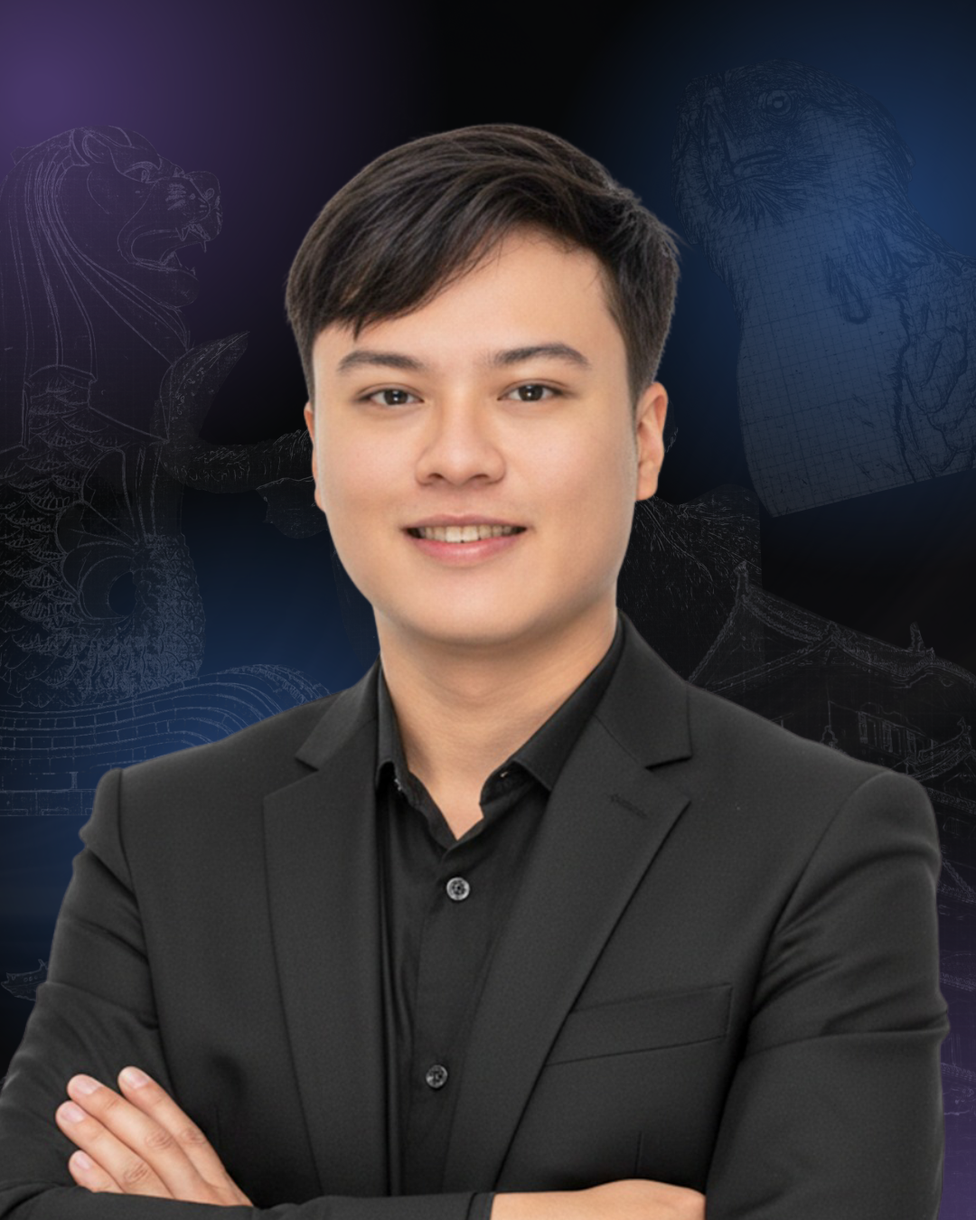
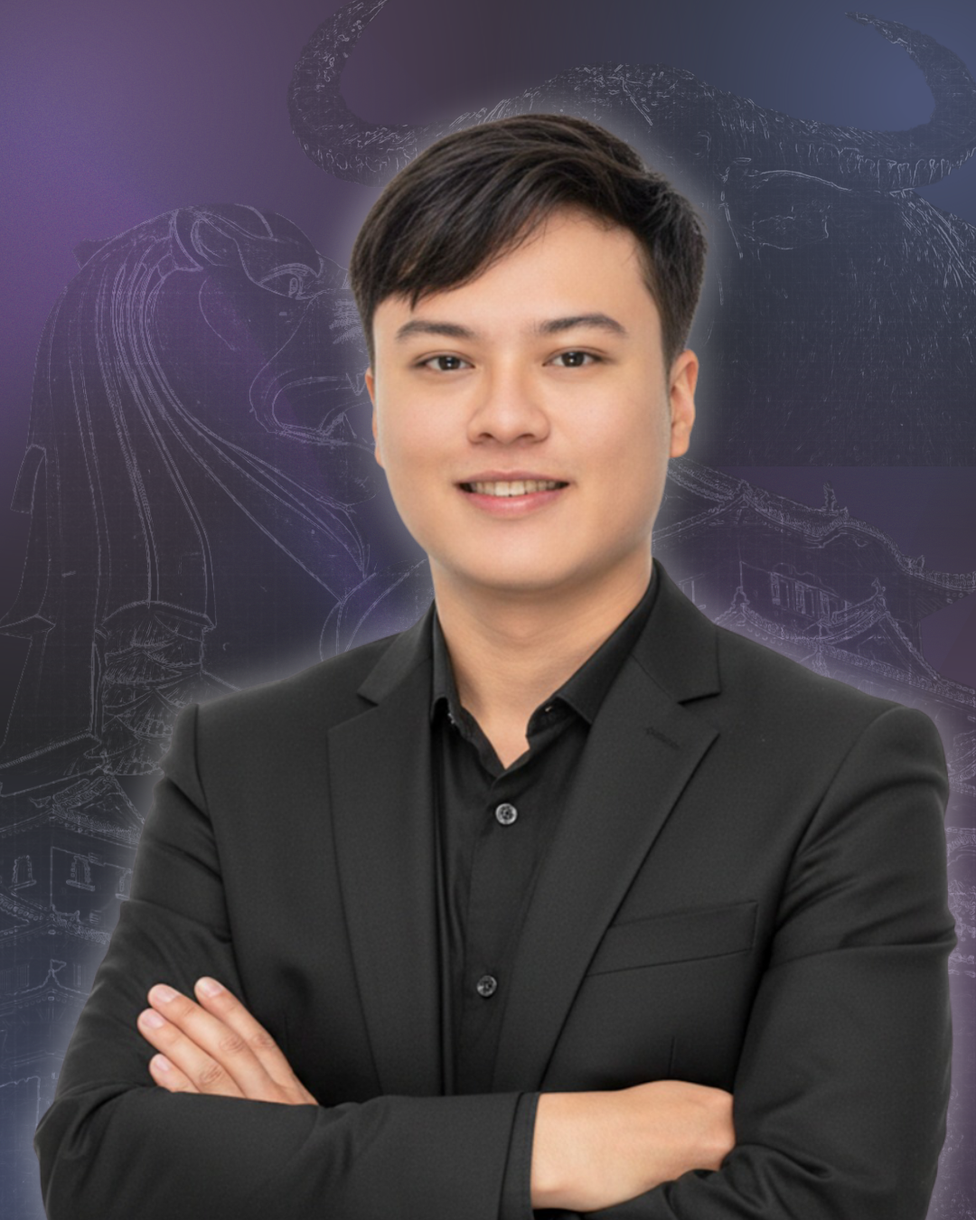
speaker and post fixes

diff --git a/src/components/site/UpcomingSpeakers.tsx b/src/components/site/UpcomingSpeakers.tsx
@@ -16,73 +16,96 @@ interface UpcomingSpeaker {
 
 const speakers: UpcomingSpeaker[] = [
   {
-    img: "/new-speakers/1.png",
+    img: "/new-speakers/Rose Sagun.png",
     name: "Rose Sagun",
     role: "Education Specialist, Human and Social Development Sector Office (SG-HSD), Sectors Group (SG), Asian Development Bank",
     logo: "/speaker-logos/adb.png",
     bio: "Rose is an Education Specialist at the Education Practice Team, Sector Group, Asian Development Bank. Before joining ADB, she worked at the Education Commission in Washington D.C., which was co-convened by the former Director-General of UNESCO and the UN Special Envoy for Global Education. She has worked on adaptive, personalized learning; digital learning/EdTech initiatives; and studying the interface between technology and human interaction, learning, and pedagogy. She served as the Co-Chair of Harvard Alumni for Education \u2014 San Francisco Bay Area chapter. She holds a Master\u2019s degree in International Education Policy from Harvard University.",
   },
   {
-    img: "/new-speakers/kristoni.png",
+    img: "/new-speakers/Kristoni.png",
     name: "Kristoni Go",
     role: "COO & Country Director, Enactus Philippines",
-    logo: "/speaker-logos/enactus-logo.webp",
+    logo: "/speaker-logos/Enactus-logo-white.png",
     bio: "Kristoni Go serves as the Chief Operating Officer and Country Director of Enactus Philippines, a global non-profit organization that mobilizes university students to create community impact through entrepreneurial action. In her role, she leads strategic operations, partnership development, and program management across the Philippines. Kristoni is deeply committed to youth empowerment and social innovation, working to equip the next generation of leaders with the skills and mindset to drive sustainable change. Her leadership at Enactus Philippines has expanded the organization's reach to hundreds of students nationwide, fostering a culture of purpose-driven entrepreneurship.",
   },
   {
-    img: "/new-speakers/2.png",
+    img: "/new-speakers/Tomiwa.png",
+    name: "Tomiwa Akinsanya",
+    role: "Project Coordinator, DTH Lab",
+    logo: "/speaker-logos/dtt.png",
+    bio: "Tomiwa Akinsanya, Project Coordinator at the Digital Transformations for Health Lab, is passionate about using digital technologies and innovative behavioral sciences to enhance global youth health. Tomiwa has worked with respected organizations dedicated to advancing digital health and youth well-being globally. With almost a decade of experience, a B.Sc in Physiology and a Masters in Public Health, she applies specialized skills in research, project management, communication, stakeholder management, and advocacy to improve health systems for the benefit of all. Her core values are aligned with Innovation, Empathy, Creativity, Integrity, Team Work and Excellence.",
+  },
+  {
+    img: "/new-speakers/Rustam.png",
     name: "Rustam Shariq Mujtaba",
     role: "Regional Youth Champion, DTH Lab",
-    logo: "/speaker-logos/dth-lab.png",
+    logo: "/speaker-logos/dtt.png",
     bio: "Rustam serves as the Southeast and East Asia Regional Youth Champion at the Digital Transformation for Health Lab (DTH-Lab), where he supports youth leadership and regional collaboration on digital health. He has experience working in the digital health ecosystem in startups and as a health regulatory, working as the Manager of Regulatory Affairs & Data Analytics at Peach Health Asia, working on the regulation and deployment of AI-enabled Software Medical Devices across Southeast Asia. Currently, he works as a Data Scientist at Singapore's Health Sciences Authority, developing AI-enabled regulatory solutions for healthcare. His interests lie at the intersection of digital health, AI governance, health diplomacy, and strengthening equitable health systems through responsible innovation.",
   },
   {
-    img: "/new-speakers/3.png",
+    img: "/new-speakers/Edward.png",
     name: "Edward Yee",
     role: "Co-Founder, AI for Asia & GivFunds",
     logo: "/speaker-logos/aiforasia.png",
     bio: "Edward Yee is a serial social entrepreneur whose career bridges impact, finance, and technology. He co-founded ventures such as Givfunds, an impact fund, and nsave, a fintech focused on financial inclusion. His ventures have attracted funding from prominent backers including Sequoia Capital, the UNDP, and Y Combinator. Today, Edward is the Chief Growth Officer of FAR.AI, an AI Safety non-profit that works to ensure advanced AI is safe and beneficial for everyone. A Rhodes Scholar, Edward holds two master\u2019s degrees from Oxford and was the Valedictorian of his class at Nanyang Technological University. His contributions have earned him recognition as an Obama Leader, the Commonwealth Youth Award for Asia, and a spot on the Forbes 30 Under 30 list. In his free time, Edward enjoys sticking his nose in a book and collecting stories from around the world. He has stood on Bangladeshi train tops, stared down bull sharks, and raced Indian \u201Cautos\u201D.",
   },
   {
-    img: "/new-speakers/4.png",
+    img: "/new-speakers/Cyrus.png",
     name: "Cyrus Hodes",
     role: "Founder, AI Safety Connect",
     logo: "/speaker-logos/ai-safety-connect.png",
     bio: "Cyrus is a Venture Partner at Lionheart Ventures, a VC fund investing in early-stage responsible AI and AI Safety. He is a co-founder of Stability AI, a leading global generative AI platform, and the founder of AI Safety Connect, a global gathering on AI Safety as well as an AI policy platform. As an expert in the Global Partnership on AI (GPAI), he has co-led the Safety and Assurance of Generative AI (SAFE) project. Cyrus is a Fellow of Practice at the Mohammed Bin Rashid School of Government in Dubai, where he leads their AI Safety initiative, Global Risk and AI Safety Preparedness (GRASP). Cyrus co-founded The Future Society\u2014a 501(c)3 incubated at Harvard Kennedy School and chaired its AI Initiative\u2014where he engaged early with global stakeholders to study and help shape the governance of AI. He served as an Advisor to the UAE Minister of Artificial Intelligence at the Prime Minister\u2019s Office. Educated at Sciences Po Paris, MA (Hons) Paris II University, M.P.A. Harvard.",
   },
   {
-    img: "/new-speakers/6.png",
+    img: "/new-speakers/Andreas.png",
+    name: "Andreas Tjendra",
+    role: "AI National Advisor, RMIT Industry Partner at RMIT University",
+    logo: "/speaker-logos/rmit.png",
+    bio: "Andreas Tjendra is an AI National Advisor whose expertise spans Industry, Government, and Academia, focusing on driving innovation and strategy in artificial intelligence and technology development. He has contributed to major initiatives such as the AI National Roadmap (Ministry of Communication and Digital Affairs). He has also served as a Subject Matter Expert for the Ministry of ICT, the Presidential Advisory Council, and ClimateSmart Indonesia. His work supports the integration of AI, climate, and health data into national policies and development projects. Andreas has advised over 15 governments, 50+ industries, and 5 academic institutions. He was previously with Geotech Australia and has served as a consultant for BHP Billiton, Google.org, and the ASEAN Foundation.",
+  },
+  {
+    img: "/new-speakers/Boyi.png",
+    name: "Boyi Zhang",
+    role: "Programme Officer, Global Partnership and Programme Office at UNESCO-ICHEI",
+    logo: "/speaker-logos/Unesco.png",
+    bio: "Mr. Boyi Zhang is currently a Programme Officer at the International Centre for Higher Education Innovation under the auspices of UNESCO (UNESCO-ICHEI). Prior to joining UNESCO ICHEI, Boyi served with the UN Regional Centre for Peace and Disarmament in Asia and the Pacific (UNRCPD) as a Junior Project Advisor for Youth and Disarmament, acting as the focal point for youth and disarmament education in the region. Previously he also worked as a Research Assistant at the Chinese Academy of International Trade and Economic Cooperation of the Ministry of Commerce of the PRC and the Institute of Area Studies at Peking University. Boyi holds a Master\u2019s degree in International Governance and Diplomacy from Sciences Po and an LLB from the University of International Relations in Beijing.",
+  },
+  {
+    img: "/new-speakers/Carlo.png",
+    name: "Carlo Fernando",
+    role: "Learning Innovation and Information Specialist, SEAMEO",
+    logo: "/speaker-logos/seameo.png",
+    bio: "Mr Carlo Fernando is the Learning Innovation and Information Specialist at the SEAMEO Secretariat in Bangkok, Thailand, where he leads and coordinates regional initiatives advancing learning innovation, digital transformation, institutional capacity, and cross-border collaboration across Southeast Asia. He oversees the International Institute of Online Education (IIOE) Southeast Asia Regional Centre, the SEAMEO Schools Network, and the Southeast Asia School Leadership Hub, working with ministries, universities, schools, SEAMEO Regional Centres, and development partners to strengthen capacity, generate and translate evidence, and build regional platforms for knowledge exchange and innovation. His work focuses on teacher development, higher education, education technology, and regional cooperation, with particular interest in how education systems can respond to emerging technologies while remaining equitable, relevant, and responsive to local contexts. He holds a Master of Learning Sciences and Technology from the University of Sydney, where he studied as an Australia Awards Scholar, and began his career as a Grade 3 public school teacher with Teach for the Philippines.",
+  },
+  {
+    img: "/new-speakers/Sebastian.png",
     name: "Sebastian Felipe Bundoc",
     role: "Senior Data Scientist, Education Center for AI Research",
-    logo: "/speaker-logos/center-for-ai-research.png",
+    logo: "/speaker-logos/CAIR.png",
     bio: "Eli Bundoc has deep roots in the education sector, having worked with the Department of Education, Commission on Higher Education, and the Second Congressional Commission on Education. His roles have included policy writing, grant management, stakeholder engagement, and data analysis. Eli\u2019s consistent work with government data and his understanding of its importance in planning and policy-making led him to pursue and complete his Master of Science in Data Science degree at the Asian Institute of Management. Currently at the Education Center for AI Research (ECAIR), Eli combines his background in education with his data science skills to harness machine learning and artificial intelligence solutions for the public education sector.",
   },
 
   {
-    img: "/new-speakers/8.png",
+    img: "/new-speakers/Michelle.png",
     name: "Michelle Kim-Rissi",
     role: "Co-Founder / Programme Manager, JIVAM Foundation / UN Canada / WFUNA",
     logo: "https://www.unac.org/wp-content/uploads/unac-logo.webp",
     bio: "Michelle Kim-Rissi is a sustainability, climate, and global development professional working at the intersection of sustainability, education, international cooperation, and community-driven sustainability initiatives. She currently serves in leadership, coordination, and advisory roles with various organizations including the JIVAM Foundation, the United Nations Association in Canada (UNAC), and the World Federation of United Nations Associations (WFUNA). Her broader experience includes collaborations and engagements with UNEP, UNDP initiatives, Harvard sustainability networks, youth climate coalitions, educational institutions, and international civil society organizations focused on climate action, social impact, and sustainable development. Michelle holds a Master\u2019s degree from Harvard University and is a Harvard alumni awardee for social change. Over the past decade, she has led and contributed to projects related to climate resilience, environmental education, sustainable communities, youth leadership, and health equity across local and international contexts. She has spoken, facilitated, or represented organizations at conferences, forums, and UN-related events in countries including Canada, the United States, South Korea, the United Arab Emirates, Switzerland, UK and Mexico, including engagements connected to COP, UNEA, CSW, UNGA, and many other UN advocacy forums, climate leadership events, and multilateral dialogues. Her work has included developing sustainability programs, supporting underserved and Indigenous communities, building international partnerships, and creating initiatives that connect local action to global sustainability goals. Michelle continues to advocate for collaborative and forward-thinking approaches that leverage sustainability and innovation to address global challenges. Her leadership emphasizes the importance of multilateral collaboration, community empowerment, and inclusive sustainability in shaping a more equitable and resilient future.",
   },
-  // {
-  //   img: "/new-speakers/9.png",
-  //   name: "Daniel Eriksson",
-  // },
-  // {
-  //   img: "/new-speakers/10.png",
-  //   name: "George Tsiatis",
-  // },
-  // {
-  //   img: "/new-speakers/11.png",
-  //   name: "Tiaro Paska Rivo",
-  // },
   {
-    img: "/new-speakers/12.png",
-    name: "Andreas Tjendra",
-    role: "AI National Advisor, RMIT Industry Partner",
-    logo: "",
-    bio: "Andreas Tjendra is an AI National Advisor whose expertise spans Industry, Government, and Academia, focusing on driving innovation and strategy in artificial intelligence and technology development. He has contributed to major initiatives such as the AI National Roadmap (Ministry of Communication and Digital Affairs). He has also served as a Subject Matter Expert for the Ministry of ICT, the Presidential Advisory Council, and ClimateSmart Indonesia. His work supports the integration of AI, climate, and health data into national policies and development projects. Andreas has advised over 15 governments, 50+ industries, and 5 academic institutions. He was previously with Geotech Australia and has served as a consultant for BHP Billiton, Google.org, and the ASEAN Foundation.",
+    img: "/new-speakers/Anselmo.png",
+    name: "Anselmo Lee",
+    role: "Ambassador for Human Rights, Peace and Democracy, Republic of Korea",
+    logo: "/speaker-logos/southkorea.webp",
+    bio: "Appointed in May 2026 as South Korea's first Human Rights Ambassador, H.E. Anselmo Lee is one of Asia's most prominent and experienced human rights advocates, with decades of contributions to human rights and civil society movements across the region. He has served as President of Pax Romana in Geneva, Executive Director of Forum-Asia, Executive Director of the Korea Human Rights Foundation, and Director General for Policy and Human Rights Education at the National Human Rights Commission of Korea. He is a co-founder of the Asia Development Alliance and the Asia Democracy Network, and currently serves as Regional Coordinator at the Asia Civil Society Partnership for Sustainable Development, board member at the May 18 Memorial Foundation, and adjunct professor at Kyunghee, SungKongHoe, and Ajou University. He is deeply committed to linking human rights with sustainable development and to nurturing the next generation of human rights defenders across Asia.",
+  },
+  {
+    img: "/new-speakers/Shellan.png",
+    name: "Shellan Saling",
+    role: "Carbon Management and Climate Transition Coach · Policy Lead and Plastics Lead, The Change Climate Project · Waves of Change Coalition",
+    logo: "/speaker-logos/climatechange.png",
+    bio: "Shellan Saling is a sustainability, climate, and international development professional working at the intersection of environmental policy, corporate strategy, and applied AI. She currently serves as interim chair of the Youth Plastics Action Network (YPAN), leading global youth coordination across 170+ countries in the first-ever United Nations Global Plastics Treaty negotiations, where she has delivered formal interventions on behalf of youth and contributed to treaty language on extended producer responsibility, sustainable materials, and other provisions. Over the past six years, she has lived and worked in the United States, India, and the Netherlands, advising consumer brands on sustainability strategy and carbon measurement, and building AI-powered tools that streamline corporate sustainability, including one that cut regulatory analysis from 40 hours to under 30 seconds. She has co-founded and co-organized several international sustainability education initiatives, including a multilateral environmental agreement bootcamp that has trained over 10,000 participants from 130+ countries in just over a year. Her broader experience spans climate resilience, environmental education, and community-driven sustainability, connecting local action to global goals. Shellan holds a Master's in Development Studies from Erasmus University Rotterdam and a BA in International Relations from UC Davis, and has engaged in UN processes including the INC plastics negotiations and UNEA. As a sustainability professional, she is cautiously optimistic about AI: clear-eyed about its risks, including its own environmental footprint, but convinced that the more useful path is to help shape practical, responsible solutions rather than resist a technology that is here to stay. Her work focuses on turning complex policy and emerging technology into practical, solutions-oriented approaches that advance sustainable development, and on ensuring young people have a real seat at the table where the rules get written. Fittingly, she took her first steps in Yosemite National Park, an early sign of the path her life and work would follow.",
   },
   {
     img: "/new-speakers/13.png",
@@ -116,6 +139,8 @@ function UpcomingSpeakerCard({
           src={speaker.img}
           alt={speaker.name}
           fill
+          sizes="(max-width: 639px) 50vw, (max-width: 767px) 33vw, 25vw"
+          loading={speaker.name === "Kristoni Go" ? "eager" : "lazy"}
           className="object-cover transition-transform duration-700 group-hover:scale-105"
         />
       </div>
@@ -254,6 +279,7 @@ function SpeakerModal({
                 src={speaker.img}
                 alt={speaker.name}
                 fill
+                sizes="(max-width: 768px) 100vw, 45vw"
                 className="object-cover"
               />
             </div>

diff --git a/src/data/social-feed.ts b/src/data/social-feed.ts
@@ -8,57 +8,75 @@ export interface SocialPost {
 
 export const socialPosts: SocialPost[] = [
   {
-    id: "deadline-extended",
+    id: "capstone-countdown",
     message:
-      "You asked for more time. Here it is. ⏳\nThe AI for Asia Fellowship 2026 application deadline has officially been extended!\nAnd we didn't just extend the deadline, here's everything you need to know before you apply:\n🌏 Who can apply?\nThe fellowship is primarily open to citizens and residents of ASEAN Member States and South Korea. If you're from another country, you're still welcome to apply — accepted applicants outside these countries may participate as Observers, with access to learning sessions and selected fellowship activities.\n🎂 What's the age requirement?\nWe've expanded eligibility to applicants 18 to 35 years old.\n📋 What if I don't meet every requirement?\nApply anyway. We evaluate applications holistically.\n💸 How much does it cost?\nApplication and participation are completely free.\n👉 Apply now: form.typeform.com/to/NOTrA2Qg",
-    images: ["/social/deadline-extended.jpg"],
-    permalink:
-      "https://web.facebook.com/photo/?fbid=122143266639017899&set=a.122096943807017899",
-    date: "2026-06-18",
+      "Two months in. Now it's their turn. 🌏\nThey sat in zoom rooms with ambassadors and asked what human rights actually mean in an age of AI. They pushed back on the hype and learned what machine learning looks like when it has to work offline, in remote schools, with no reliable internet. They heard about the environmental cost of the tools we're so excited to build. They debated who AI governance serves and who it leaves out.\nFor eight weeks, they listened, questioned, and challenged.\nNow they answer.\nOn September 19 and 26, our 120 fellows from across ASEAN and South Korea take the floor for their Capstone Presentations, country-level research on the AI landscape in their own communities, covering policy, ethics, social impact, and what needs to change.\n12 countries. 120 perspectives. One fellowship.\nWe can't wait to hear what they've built. 🚀",
+    images: ["/social/capstone-countdown.jpg"],
+    permalink: "https://www.facebook.com/share/p/1CLtRnJwyy/",
+    date: "2026-09-14",
   },
   {
-    id: "ai-disruption",
+    id: "ambassador-insights",
     message:
-      "That customer service job you interned for last summer? AI handles it now. The data entry roles your classmates applied to after graduation? Automated. The graphic design freelance gigs? Platforms like Canva AI and Adobe Firefly just cut the barrier to entry in half.\n164 million workers across Southeast Asia are in jobs being disrupted by AI right now, not in 10 years. Now.\nThis isn't about fear. It's about who gets to be on the building side of this shift instead of the receiving end.\nAI for Asia Fellowship 2026 is 12 weeks of learning how AI actually works, who controls it, and how to lead in a world it's reshaping.\nNo engineering degree. No coding background. Just you, 120 fellows from 12 countries, and the drive to show up.\nApplications close June 20, 2026.\nSource: Access Partnership & Google, Future of Work in Asia-Pacific, 2024",
-    images: ["/social/ai-disruption.jpg"],
-    permalink:
-      "https://web.facebook.com/photo?fbid=122142829581017899&set=pcb.122142829851017899",
-    date: "2026-06-15",
+      "\"Let us not simply allow AI to determine our future. Let us work together to determine the future of AI.\" 🌏\nOf all the things said in Session 7 this Saturday, this is the one that stayed with us.\nIn a conversation about climate action, sustainable development, and the real costs of AI, energy, water, inequality, it would have been easy to stay in the abstract. But H.E. Seonghoon Anselmo Lee, Ambassador for Human Rights, Peace and Democracy of the Republic of Korea, brought it back to something more fundamental: AI is not inevitable. It is not neutral. And the rules governing it are still being written.\nWhich means someone has to write them.\nHe reminded our fellows that they are not just the future of AI, they are its present stakeholders, co-designers, and rule-makers. That they carry a responsibility not only to the communities here today, but to the generations who aren't yet in the room and have no voice in the decisions being made right now.\nTo our fellows across ASEAN and South Korea: we hope you leave Session 7 not just knowing more about AI and the SDGs, but with a clearer sense of what you're willing to fight for, and who you're building for.\nThat's what this fellowship is for.",
+    images: ["/social/sept7.jpg"],
+    permalink: "https://www.facebook.com/share/p/1BxYvRy9HL/",
+    date: "2026-09-07",
   },
   {
-    id: "fellow-spotlight",
+    id: "session7-speakers",
     message:
-      "These are the voices of AI for Asia 2025's outstanding fellows. 🌏\nFrom Indonesia, the Philippines, Vietnam, Myanmar — young people who came in curious and left with a perspective that's already shaping how they see AI, governance, and their role in the region.\nSwipe through what they had to say. 👉\nThen ask yourself: what would your take be after 12 weeks in this program?\nAI for Asia Fellowship 2026 is open now. 120 spots. 12 countries. Fully online. No tech background needed.\nDeadline: June 20, 2026 | 11:59 PM GMT+8",
-    images: ["/social/fellow-spotlight.jpg"],
-    permalink:
-      "https://web.facebook.com/permalink.php?story_fbid=pfbid02QGCu6QaPvjHtBLLzHn8L6R8AaDxgTYg6Qkk39SYUf77gxEbuVjoe4y79w1DFh6ASl&id=61580536983970",
-    date: "2026-06-12",
+      "From climate modeling and smart agriculture to disaster preparedness, renewable energy, and circular economy solutions, AI is already reshaping how the world responds to its most pressing environmental and development challenges.\nBut with that power comes real responsibility: the energy AI consumes, the data it requires, the communities it leaves behind, and the governance frameworks that must sit underneath all of it.\nThis Saturday, we explore all of it.\nMichelle Kim-Rissi is a Harvard-trained sustainability and global development professional serving with the JIVAM FOUNDATION, UN Association Canada, and the World Federation of United Nations Associations (WFUNA). A Harvard alumni awardee for social change, Michelle has spent over a decade leading work across climate resilience, environmental education, youth leadership, and health equity, with engagements at COP, UNEA, CSW, UNGA, and multilateral forums across Canada, South Korea, the UAE, Switzerland, the UK, Mexico, and beyond.\nShellan Saling is a sustainability, climate, and international development professional working at the intersection of environmental policy, corporate strategy, and applied AI. As Interim Chair of the Youth Plastics Action Network (YPAN), she leads youth coordination across 170+ countries in the first-ever UN Global Plastics Treaty negotiations, delivering formal interventions and contributing to treaty language on extended producer responsibility and sustainable materials. She has built AI-powered tools that cut regulatory analysis from 40 hours to under 30 seconds, and co-organized the MEA Bootcamp, training over 10,000 participants from 130+ countries. She holds a Master's in Development Studies from Erasmus University Rotterdam and a BA in International Relations from UC Davis. Cautiously optimistic about AI, her work focuses on turning complex policy and emerging technology into practical solutions, and ensuring young people have a real seat at the table where the rules get written.\nTogether, they will bring 120 young leaders from across ASEAN and South Korea through expert insights, real-world examples, and a collaborative workshop where fellows apply AI and systems thinking to SDG challenges in their own communities.\nThe conversation starts Saturday. 👀\nSession 7 | AI for Asia Fellowship 2026\n📅 September 5, 2026 | 2:00 PM GMT+8 | Online via Zoom",
+    images: ["/social/sept3.jpg"],
+    permalink: "https://www.facebook.com/share/p/1BmzutvGQW/",
+    date: "2026-09-03",
   },
   {
-    id: "ready-to-lead",
+    id: "session7-ethics",
     message:
-      "You've heard about AI. But are you actually ready to lead in it? 🌏\nThe AI for Asia Fellowship 2026 is where that changes.\nSwipe through and here's what you're really signing up for.\nThink critically. Lead responsibly — Learn how AI actually works, who it serves, and how to govern it ethically.\n120 fellows. 12 countries. 1 shared mission — Your ASEAN network starts here, and outlasts the program.\nBuild for what's next — Turn AI knowledge into real skills and real opportunities for your career and your community.\nYour idea, your stage, your impact — Work on a capstone project tackling a real-world problem and pitch it to an actual audience.\n12 weeks. Fully online. Ages 18–30. No tech background needed.\nDon't just adapt to the future of AI, help shape it.\n⏳ Deadline: June 20, 2026 | 11:59 PM GMT+8",
-    images: ["/social/ready-to-lead.jpg"],
-    permalink:
-      "https://web.facebook.com/permalink.php?story_fbid=pfbid02uEQMYTB2tizx6y6AmCenDNdVLZpdp2LMmv8QcmLoXaT1pLvr5KgBRpdkyDTkH5Gfl&id=61580536983970",
-    date: "2026-06-10",
+      "AI can predict typhoons. Optimize solar grids. Monitor biodiversity loss in real time.\nBut here's what the data doesn't tell you: most AI-for-climate tools were never designed with the communities facing the worst of it.\nSession 7 of the AI for Asia Fellowship goes there, the real conversation on what it means to use AI responsibly for sustainable development. Not just the applications, but the ethics. Not just the potential, but the cost.\nWe're honored to open with a Message of Support from H.E. Seonghoon (Anselmo) LEE Ambassador for Human Rights, Peace and Democracy, RoK Government, a powerful voice on the intersection of governance, human rights, and sustainable futures.\nWe're then sitting down with Michelle Kim-Rissi (JIVAM FOUNDATION / Climatech Institute / UN Association Canada) and Shellan Saling (Youth Plastic Action Network (YPAN)), two leaders working to make sure AI for the SDGs actually serves the people the SDGs were written for.\nClimate modeling. Smart agriculture. Disaster preparedness. Renewable energy. Circular economy. And the harder questions about AI energy consumption, equity, and who gets left out.\nThis Friday. Don't miss it. 👀",
+    images: ["/social/sept3(2).jpg"],
+    permalink: "https://www.facebook.com/share/p/19AhYvEdPb/",
+    date: "2026-09-03",
   },
   {
-    id: "which-are-you",
+    id: "ecair-insight",
     message:
-      "Be honest, how many of these are you? 👇\nBecause if you've ever wondered how AI actually works, who's building it, and whether someone like you belongs in that conversation, this fellowship was made for you.\nAI for Asia Fellowship 2026 is looking for emerging leaders from across ASEAN and South Korea who are ready to understand AI, lead with it, and shape what comes next.\nNo engineering degree. No coding experience. Just curiosity and the drive to lead.\nApplications close June 20, 2026 | 11:59 PM GMT+8",
-    images: ["/social/which-are-you.jpg"],
-    permalink:
-      "https://web.facebook.com/permalink.php?story_fbid=pfbid02aDVS2wkB8RAWb2ka6FFcNwk7fvVchi6bJBqrtU2ZEs8eqVaEq9EM5BBgmZGniLrMl&id=61580536983970",
-    date: "2026-06-08",
+      "\"For ECAIR, you have to start with the problem before you create a solution.\" 💬\nIn a space obsessed with what AI can do, Eli Bundoc of Center for AI Research DepEd Philippines brought it back to something more fundamental: where does the problem actually come from?\nNot from a lab. Not from a trend. From a community. A body of people who can tell you what's broken, a teacher who can't track which student is quietly falling behind, a school administrator drowning in paper records, a district with no signal and no system.\nSilicon Valley sells you an idea. ECAIR starts with a community first.\nTo our fellows across ASEAN and South Korea: before you build anything, ask yourself, who told you this was the problem? Because that answer changes everything.",
+    images: ["/social/sept2.jpg"],
+    permalink: "https://www.facebook.com/share/p/14r9xeAKB6d/",
+    date: "2026-09-02",
   },
   {
-    id: "what-is-aiforasia",
+    id: "session6-villar",
     message:
-      "You've been seeing us on your feed. Here's what AI for Asia actually is. 👇\nAI for Asia Fellowship 2026 is where 120 young people from across ASEAN and South Korea spend 12 weeks becoming the generation that actually leads Asia's AI future.\nNo tech background needed. Just curiosity and the drive to show up.\nSwipe to see what you walk away with. 👉\nThink you qualify?\nAges 18–30. Open to all ASEAN member states + South Korea.\nDeveloped by Siklab Pilipinas and supported by the National Youth Council Singapore.\nIf this sounds like you, apply now!\n⏳ Deadline: June 20, 2026 | 11:59 PM GMT+8",
-    images: ["/social/what-is-aiforasia.jpg"],
-    permalink:
-      "https://web.facebook.com/permalink.php?story_fbid=pfbid02N1hYeDfiXT14qprbLvkrR5e8bND7SG9ajy88UNjrVtVSgkhPSkjdXMBHm2caNxxkl&id=61580536983970",
-    date: "2026-06-05",
+      "\"It's not the technology, but the person behind the technology that matters the most.\" 💬\nThis is the line from Session 6 we keep coming back to.\nPauline Marie Villar of Center for AI Research DepEd Philippines reminded young leaders across 12 countries that every dataset represents a real learner. Every model you design should make someone's work lighter. Someone's future clearer. Someone's chance to keep up a little more possible.\nWe have 12 countries and 1 fellowship and one shared question: how do we make AI work for the learners who need it most?\nThe answer doesn't start with the algorithm. It starts with remembering who you're building for.\nThat's what this fellowship is for. 🌏",
+    images: ["/social/sept2(2).jpg"],
+    permalink: "https://www.facebook.com/share/p/19jqY5CJUq/",
+    date: "2026-09-02",
+  },
+  {
+    id: "session6-ecair",
+    message:
+      "Generative AI gets the headlines. But across Southeast Asia, the AI that actually matters is the kind most people never see. 🌏\nPredictive models flagging students at risk of dropping out. Computer vision digitizing millions of school records. Resource distribution systems built to run offline in remote school districts with no reliable internet.\nThis is what Education Center for AI Research — DepEd Philippines is actually building. And this Saturday, they're bringing that work to 120 young leaders from across ASEAN and South Korea.\nSwipe to see what practical, responsible ML looks like when it has to serve millions of learners across one of the most complex education systems in the region →\nSession 6 | AI for Asia Fellowship 2026 x ECAIR\n📅 August 29, 2026 | 2:00 PM GMT+8 | Online via Zoom",
+    images: ["/social/aug28.jpg"],
+    permalink: "https://www.facebook.com/share/p/1bt6Ehdi1U/",
+    date: "2026-08-28",
+  },
+  {
+    id: "session6-bundoc",
+    message:
+      "Most AI tools get the spotlight. The systems actually running public education don't. 🖥\nThis Saturday, we sit down with Sebastian Felipe \"Eli\" Bundoc, Senior Data Scientist at the Education Center for AI Research (ECAIR), DepEd Philippines, and the conversation is going to look very different from what you're used to.\nEli started where it matters most, on the ground, working in policy, grant management, and data analysis across DepEd, CHED, and the Congressional Commission on Education. That foundation led him to pursue a Master of Science in Data Science at the Asian Institute of Management, and now at ECAIR, he's doing what few people in this space are: building and deploying real machine learning systems inside a public education system serving tens of millions of learners.\nNot chatbots. Not demos. Predictive dropout warning systems. Computer vision for document digitization. ML models built to run offline in remote, low-connectivity school districts across the Philippines.\nSession 6 goes beyond the generative hype, into what responsible, practical AI actually looks like when equity isn't optional and the stakes are that high.\nThen it's your turn. Fellows will design their own non-chatbot AI system to solve a real educational challenge in a resource-constrained ASEAN school district, from choosing the right ML approach, to protecting student data privacy, to making it work where the internet doesn't. 👇\nCome ready to think differently about what AI can actually do. 👀\nSession 6 | AI for Asia Fellowship 2026 x ECAIR\n📅 August 29, 2026 | 2:00 PM GMT+8 | Online via Zoom",
+    images: ["/social/aug26.jpg"],
+    permalink: "https://www.facebook.com/share/p/19GkHtzMkv/",
+    date: "2026-08-26",
+  },
+  {
+    id: "session5-fight",
+    message:
+      "\"What is your fight? Make it personal because you make it real.\" 💬\nOf all the things said in Session 5 this Saturday, this is the one that stayed with us.\nIn a conversation about AI governance, education systems, and regional policy, it would have been easy to stay abstract. But Carlo Fernando of the SEAMEO Secretariat brought it back to the most human question of all: why does this matter to you?\nAre you doing this so Muslim girls have more access to education? So LGBT youth have access to safe spaces? So the child in your community who can't afford school someday can?\nBecause if it matters to you personally, if you can see the face of the person you're building for, that's what makes the work real. That's what makes it last.\nTo our 120 fellows across ASEAN and South Korea: we hope you leave Session 5 not just with frameworks and policy questions, but with a clearer sense of your own fight.\nThat's what this fellowship is for. 🌏\nSession 5 | AI for Asia Fellowship 2026 x SEAMEO",
+    images: ["/social/aug23.jpg"],
+    permalink: "https://www.facebook.com/share/p/1EoCJ5Qzvp/",
+    date: "2026-08-23",
   },
 ];

diff --git a/src/components/site/CTA.tsx b/src/components/site/CTA.tsx
@@ -42,6 +42,7 @@ export function CTA() {
                   alt="Siklab Pilipinas"
                   width={100}
                   height={34}
+                  style={{ height: "auto" }}
                   className="h-9 w-auto opacity-80 brightness-0 invert"
                 />
                 <span className="hidden sm:block w-px h-8 bg-white/20" />
@@ -50,6 +51,7 @@ export function CTA() {
                   alt="United Nations"
                   width={80}
                   height={40}
+                  style={{ height: "auto" }}
                   className="h-10 w-auto opacity-80"
                 />
                 <Image
@@ -57,6 +59,7 @@ export function CTA() {
                   alt="European Union"
                   width={100}
                   height={40}
+                  style={{ height: "auto" }}
                   className="h-9 w-auto opacity-80"
                 />
                 <Image
@@ -64,6 +67,7 @@ export function CTA() {
                   alt="ASEAN"
                   width={100}
                   height={40}
+                  style={{ height: "auto" }}
                   className="h-8 w-auto opacity-80"
                 />
                 <Image
@@ -71,6 +75,7 @@ export function CTA() {
                   alt="Asian Development Bank"
                   width={100}
                   height={34}
+                  style={{ height: "auto" }}
                   className="h-9 w-auto opacity-80"
                 />
                 <Image
@@ -78,6 +83,7 @@ export function CTA() {
                   alt="Enactus"
                   width={100}
                   height={40}
+                  style={{ height: "auto" }}
                   className="h-9 w-auto opacity-80"
                 />
                 <Image
@@ -85,6 +91,7 @@ export function CTA() {
                   alt="National Youth Council Singapore"
                   width={100}
                   height={40}
+                  style={{ height: "auto" }}
                   className="h-14 w-auto opacity-80"
                 />
               </div>

diff --git a/src/components/site/Founders.tsx b/src/components/site/Founders.tsx
@@ -52,6 +52,7 @@ function FounderCard({
             src={founder.img}
             alt={founder.name}
             fill
+            sizes="(max-width: 767px) 100vw, calc(42rem / 2)"
             className="object-cover transition-transform duration-700 group-hover:scale-110"
           />
         </div>
@@ -197,6 +198,7 @@ function FounderModal({
                 src={founder.img}
                 alt={founder.name}
                 fill
+                sizes="(max-width: 768px) 100vw, 45vw"
                 className="object-cover"
               />
               <div className="absolute inset-0 bg-gradient-to-t from-black/60 via-transparent to-transparent" />

diff --git a/src/components/site/Speakers.tsx b/src/components/site/Speakers.tsx
@@ -157,6 +157,7 @@ function SpeakerCard({
             src={speaker.img}
             alt={speaker.name}
             fill
+            sizes="(max-width: 767px) 50vw, (max-width: 1023px) 33vw, (max-width: 1279px) 25vw, 20vw"
             className="object-cover transition-transform duration-700 group-hover:scale-105"
           />
         </div>
@@ -289,6 +290,7 @@ function SpeakerModal({
                 src={speaker.img}
                 alt={speaker.name}
                 fill
+                sizes="(max-width: 768px) 100vw, 45vw"
                 className="object-cover"
               />
             </div>

diff --git a/src/components/site/Advisors.tsx b/src/components/site/Advisors.tsx
@@ -54,6 +54,7 @@ function AdvisorCard({
             src={advisor.img}
             alt={advisor.name}
             fill
+            sizes="(max-width: 767px) 100vw, calc(42rem / 2)"
             className="object-cover transition-transform duration-700 group-hover:scale-110"
           />
         ) : (

diff --git a/src/components/site/Hero.tsx b/src/components/site/Hero.tsx
@@ -112,6 +112,7 @@ export function Hero() {
               alt="Siklab Pilipinas"
               width={120}
               height={40}
+              style={{ height: "auto" }}
               className="h-10 w-auto opacity-80 brightness-0 invert"
             />
           </div>
